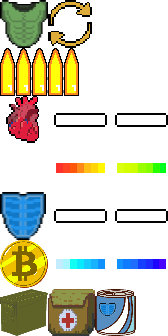
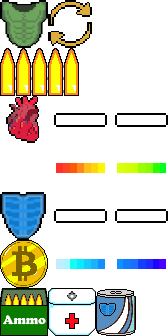
New Shop and HUD pictures

diff --git a/src/main/java/Woralcoholics/game/Game.java b/src/main/java/Woralcoholics/game/Game.java
@@ -559,7 +559,7 @@ public class Game extends Canvas implements Runnable {
                         SCREEN_HEIGHT / 2, null);
             }
             case SHOP -> {
-                g.drawImage(imgShop, 100, 30, null);
+                g.drawImage(imgShop, 80, 30, null);
             }
             case GAME_OVER -> {
                 g.drawImage(imgOver, 1, 1, null);
@@ -587,6 +587,7 @@ public class Game extends Canvas implements Runnable {
         g.drawString(Integer.toString(money.getMoney()), 470, 450);
         g.drawImage(getHUDPicture.getImage48(1, 6, 48, 48), 520, 420, null);
     }
+
     /***
      * just the instructions on how to render the UI
      * @param g Graphics Object
@@ -688,16 +689,16 @@ public class Game extends Canvas implements Runnable {
 
         }
         //MONEY
-        g.drawImage(getHUDPicture.getImage48(1, 6, 48, 48), 950, 100, null);
+        g.drawImage(getHUDPicture.getImage48(1, 6, 48, 48), 950, 120, null);
         g.setColor(Color.white);
-        g.drawString(Integer.toString(money.getMoney()), 850, 135);
+        g.drawString(Integer.toString(money.getMoney()), 850, 155);
 
         //SHOP ITEMS
         g.drawImage(getHUDPicture.getImage48(1, 7, 48, 48), 950, 380, null);
         g.drawString(Integer.toString(ammoBox), 915, 420);
         g.drawImage(getHUDPicture.getImage48(2, 7, 48, 48), 950, 430, null);
         g.drawString(Integer.toString(medKit), 915, 470);
-        g.drawImage(getHUDPicture.getImage48(3, 7, 48, 48), 950, 480, null);
+        g.drawImage(getHUDPicture.getImage48(3, 7, 48, 48), 955, 480, null);
         g.drawString(Integer.toString(shieldShot), 915, 520);
 
         g.drawImage(currWeapon, 10, 470, null);
@@ -753,13 +754,31 @@ public class Game extends Canvas implements Runnable {
             case SHOP -> {
                 handler.addObject(new UIButton(32, 32, 64, 64, "Return", RETURN,
                         ID.UIButton, this, 1, 0, imageGetter, 1, 6, g, 1, 0));
-                handler.addObject(new UIButton(292, 270, 227, 258, "Buy", GameState.SHOP,
+                handler.addObject(new UIButton(272, 270, 227, 258, "Buy", GameState.SHOP,
                         ID.UIButton, this, 4, 0, getShopBorder, 1, 1, g, 1, 0));
-                handler.addObject(new UIButton(522, 270, 227, 258, "Buy", GameState.SHOP,
+                handler.addObject(new UIButton(502, 270, 227, 258, "Buy", GameState.SHOP,
                         ID.UIButton, this, 5, 0, getShopBorder, 1, 1, g, 1, 0));
-                handler.addObject(new UIButton(752, 270, 227, 258, "Buy", GameState.SHOP,
+                handler.addObject(new UIButton(732, 270, 227, 258, "Buy", GameState.SHOP,
                         ID.UIButton, this, 6, 0, getShopBorder, 1, 1, g, 1, 0));
                 paused = true;
+            }
+
+            case UPGRADE_MENU -> {
+                randomUpgrades = upgrades.getUpgrades();
+                handler.addObject(new UIButton(SCREEN_WIDTH / 4, SCREEN_HEIGHT / 2 - 25, 207, 444,
+                        upgrades.drawUpgrades(randomUpgrades[0]), GameState.LEVEL, ID.UIButton, this, 2,
+                        randomUpgrades[0], getUpgradeButton, 1, 1, g, 1, 20));
+
+                handler.addObject(new UIButton(SCREEN_WIDTH / 2, SCREEN_HEIGHT / 2 - 25, 207, 444,
+                        upgrades.drawUpgrades(randomUpgrades[1]), GameState.LEVEL, ID.UIButton, this, 2,
+                        randomUpgrades[1], getUpgradeButton, 1, 1, g, 1, 20));
+
+                handler.addObject(new UIButton(SCREEN_WIDTH * 3 / 4, SCREEN_HEIGHT / 2 - 25, 207, 444,
+                        upgrades.drawUpgrades(randomUpgrades[2]), GameState.LEVEL, ID.UIButton, this, 2,
+                        randomUpgrades[2], getUpgradeButton, 1, 1, g, 1, 20));
+
+                paused = true;      //Pause the game until Player chose an Upgrade
+                Enemy.spawnWaveAfterUpgrades();
             }
 
             case TUTORIAL -> {
@@ -804,23 +823,6 @@ public class Game extends Canvas implements Runnable {
                     resetEnenemyPool();
                     score.resetSore();
                 }
-            }
-            case UPGRADE_MENU -> {
-                randomUpgrades = upgrades.getUpgrades();
-                handler.addObject(new UIButton(SCREEN_WIDTH / 4, SCREEN_HEIGHT / 2 - 25, 207, 444,
-                        upgrades.drawUpgrades(randomUpgrades[0]), GameState.LEVEL, ID.UIButton, this, 2,
-                        randomUpgrades[0], getUpgradeButton, 1, 1, g, 1, 20));
-
-                handler.addObject(new UIButton(SCREEN_WIDTH / 2, SCREEN_HEIGHT / 2 - 25, 207, 444,
-                        upgrades.drawUpgrades(randomUpgrades[1]), GameState.LEVEL, ID.UIButton, this, 2,
-                        randomUpgrades[1], getUpgradeButton, 1, 1, g, 1, 20));
-
-                handler.addObject(new UIButton(SCREEN_WIDTH * 3 / 4, SCREEN_HEIGHT / 2 - 25, 207, 444,
-                        upgrades.drawUpgrades(randomUpgrades[2]), GameState.LEVEL, ID.UIButton, this, 2,
-                        randomUpgrades[2], getUpgradeButton, 1, 1, g, 1, 20));
-
-                paused = true;      //Pause the game until Player chose an Upgrade
-                Enemy.spawnWaveAfterUpgrades();
             }
             case GAME_OVER -> {
                 lastScore = score.showScore();
